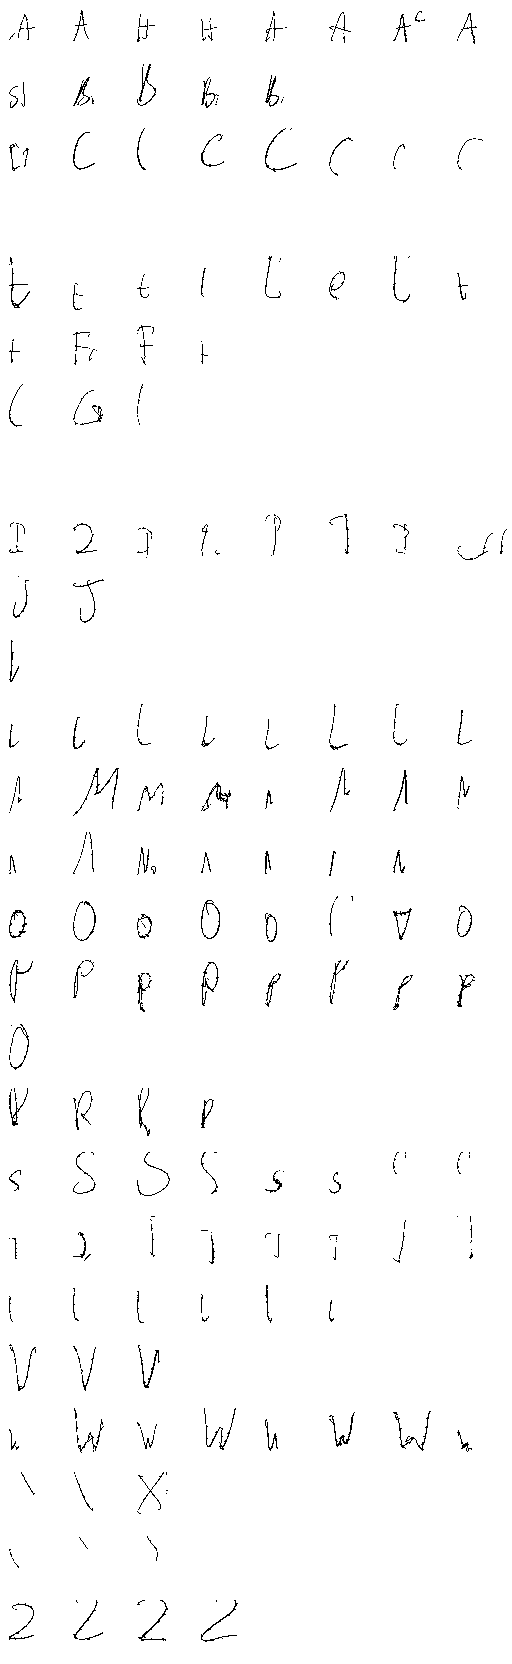
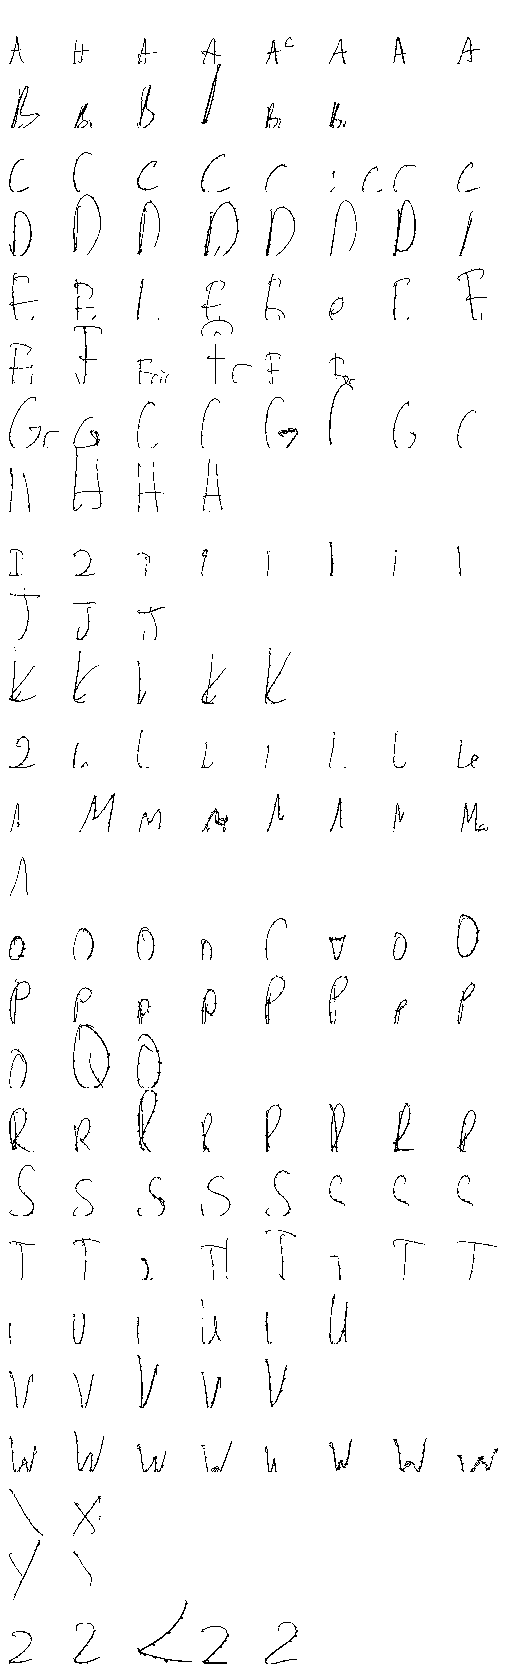
Template-guided re-cut, complete-stroke letter preference, compare v6/v7

diff --git a/inkclone/recut.py b/inkclone/recut.py
@@ -1,0 +1,135 @@
+"""Template-guided re-segmentation.
+
+Second pass over every labeled word. Same DP as `segment.py`, but each candidate
+span is also scored by how much it looks like the letter it is supposed to be, using
+templates built from the shape-filtered letter bank (the clean cores). Spans are
+described by a resampled polyline in word-normalised coordinates (baseline y=0,
+x-height = 1) plus width and height. This is what stops a cut from handing the tail
+of an "h" to the following "e".
+"""
+import pickle
+import numpy as np
+from .segment import split_diacritics, default_width_prior, load_words
+from .bank import word_frame
+from .units import resample
+
+NPTS = 16
+
+
+def span_desc(pts, xh):
+    """pts (n,2) in page coords relative to baseline -> descriptor in xh units."""
+    q = pts / xh; q = q - [q[:, 0].min(), 0]
+    r = resample(q, NPTS)
+    return np.r_[r.ravel(), q[:, 0].max() - q[:, 0].min(), q[:, 1].max() - q[:, 1].min()]
+
+
+def build_templates(letters, per_letter=60):
+    T = {}
+    for c, insts in letters.items():
+        descs = []
+        for inst in insts[:per_letter]:
+            main = max(inst["pieces"], key=len)[:, :2]  # already normalised: baseline 0, xh 1
+            pts = np.vstack([p[:, :2] for p in inst["pieces"]])
+            r = resample(main - [main[:, 0].min(), 0], NPTS)
+            descs.append(np.r_[r.ravel(), pts[:, 0].max() - pts[:, 0].min(), pts[:, 1].max() - pts[:, 1].min()])
+        if descs: T[c] = np.array(descs)
+    return T
+
+
+def recut_word(strokes, text, prior, templates, baseline, xh, lam_join=0.6, lam_width=0.6, lam_shape=1.2, max_b=44):
+    K = len(text)
+    allpts = np.vstack([s[:, :2] for s in strokes]); word_h = allpts[:, 1].max() - allpts[:, 1].min()
+    main, small = split_diacritics(strokes, word_h)
+    if not main or K == 1: return None
+    seq = np.vstack([s[:, :2] for _, s in main]); N = len(seq)
+    starts = np.cumsum([0] + [len(s) for _, s in main]); penup = set(starts[1:-1].tolist())
+    step = max(1, N // max_b)
+    cands = sorted(set(range(step, N - step, step)) | penup); cands = [c for c in cands if 0 < c < N]
+    if len(cands) < K - 1: return None
+    bounds_all = [0] + cands + [N]; B = len(bounds_all); barr = np.array(bounds_all)
+    pw = np.array([prior.get(c, 1.0) for c in text]); unit = (allpts[:, 0].max() - allpts[:, 0].min()) / pw.sum(); exp_w = pw * unit
+    ybot = np.percentile(seq[:, 1], 85)
+    jc = np.array([0.0 if b in penup or b in (0, N) else lam_join * (1 + max(0.0, (ybot - seq[b, 1]) / word_h)) for b in bounds_all])
+    rel = (seq - [0, baseline]) / xh
+    max_span = min(B - 1, int(np.ceil(1.6 * B / K)) + 2)
+    # span width matrix (B x B) via running max/min from each start
+    W = np.full((B, B), np.inf)
+    for i in range(B):
+        a = bounds_all[i]; xs = seq[a:, 0]
+        if len(xs) == 0: continue
+        cmax = np.maximum.accumulate(xs); cmin = np.minimum.accumulate(xs)
+        js = np.arange(i + 1, min(B, i + max_span + 1)); ends = barr[js] - a - 1
+        W[i, js] = cmax[ends] - cmin[ends]
+    # descriptors for all allowed spans
+    pairs = [(i, j) for i in range(B) for j in range(i + 1, min(B, i + max_span + 1)) if bounds_all[j] - bounds_all[i] >= 3]
+    desc = np.empty((len(pairs), 2 * NPTS + 2))
+    cum = np.r_[0, np.cumsum(np.linalg.norm(np.diff(rel, axis=0), axis=1))]
+    for n, (i, j) in enumerate(pairs):
+        a, b = bounds_all[i], bounds_all[j]; q = rel[a:b]
+        L = cum[b-1] - cum[a]
+        if L < 1e-6: r = np.repeat(q[:1], NPTS, 0)
+        else:
+            t = np.linspace(cum[a], cum[b-1], NPTS); r = np.column_stack([np.interp(t, cum[a:b], q[:, 0]), np.interp(t, cum[a:b], q[:, 1])])
+        r = r - [q[:, 0].min(), 0]
+        desc[n, :2*NPTS] = r.ravel(); desc[n, -2] = q[:, 0].max() - q[:, 0].min(); desc[n, -1] = q[:, 1].max() - q[:, 1].min()
+    wts = np.ones(desc.shape[1]); wts[-2:] = 3.0
+    shape = np.full((len(pairs), K), 5.0)
+    for k, c in enumerate(text):
+        T = templates.get(c)
+        if T is None: continue
+        d2 = ((desc[:, None, :] - T[None]) ** 2 * wts).sum(2)
+        shape[:, k] = np.sqrt(d2.min(1) / desc.shape[1])
+    # full cost tensor (B x B x K)
+    C = np.full((B, B, K), np.inf)
+    for n, (i, j) in enumerate(pairs):
+        C[i, j, :] = lam_shape * shape[n]
+    wc = lam_width * ((W[:, :, None] - exp_w[None, None, :]) / (0.5 * exp_w + 0.3 * unit)[None, None, :]) ** 2
+    C = C + wc + jc[None, :, None]
+    INF = 1e18; best = np.full((K, B), INF); back = np.full((K, B), -1, int)
+    best[0, :] = C[0, :, 0]
+    for k in range(1, K):
+        js = range(k + 1, B) if k < K - 1 else [B - 1]
+        for j in js:
+            v = best[k-1, :j] + C[:j, j, k]
+            i = int(np.argmin(v)); best[k, j] = v[i]; back[k, j] = i
+    if not np.isfinite(best[K-1, B-1]): return None
+    j = B - 1; cuts = []
+    for k in range(K - 1, 0, -1):
+        j = back[k, j]; cuts.append(bounds_all[j])
+    bounds = [0] + cuts[::-1] + [N]
+    chars = []
+    for k in range(K):
+        a, b = bounds[k], bounds[k+1]; pieces = []
+        for m, (i, s) in enumerate(main):
+            s0 = starts[m]; lo, hi = max(a, s0), min(b, s0 + len(s))
+            if hi > lo: pieces.append((i, lo - s0, hi - s0))
+        chars.append({"char": text[k], "pieces": pieces, "joined_prev": k > 0 and bounds[k] not in penup,
+                      "joined_next": k < K - 1 and bounds[k+1] not in penup})
+    spans = []
+    for ch in chars:
+        xs = np.concatenate([strokes[i][i0:i1, 0] for i, i0, i1 in ch["pieces"]]) if ch["pieces"] else np.array([np.nan])
+        spans.append((np.nanmin(xs), np.nanmax(xs)))
+    for i, s in small:
+        cx = s[:, 0].mean(); d = [0 if lo <= cx <= hi else min(abs(cx - lo), abs(cx - hi)) for lo, hi in spans]
+        chars[int(np.argmin(d))]["pieces"].append((i, 0, len(s)))
+    return chars
+
+
+if __name__ == "__main__":
+    import time
+    d = pickle.load(open("data/derived/segments.pkl", "rb")); units = pickle.load(open("data/derived/units.pkl", "rb"))
+    words = load_words(sorted({w["source"] for w in d["words"]}))
+    templates = build_templates(units["letters"]); prior = d["prior"]
+    import sys
+    limit = int(sys.argv[1]) if len(sys.argv) > 1 else None
+    t = time.time(); new = []; changed = 0
+    for n, (w, seg) in enumerate(zip(words, d["segs"])):
+        if limit and n >= limit: new.append(seg); continue
+        fr = word_frame(w["strokes"], seg) if seg else None
+        if not fr: new.append(seg); continue
+        r = recut_word(w["strokes"], w["text"], prior, templates, *fr)
+        if r is None: new.append(seg); continue
+        if any(a["pieces"] != b["pieces"] for a, b in zip(r, seg)): changed += 1
+        new.append(r)
+    print(f"recut {len(words)} words in {time.time()-t:.0f}s, {changed} changed")
+    if not limit: d["segs"] = new; pickle.dump(d, open("data/derived/segments.pkl", "wb"))

diff --git a/inkclone/units.py b/inkclone/units.py
@@ -59,6 +59,7 @@ def build(words, segs, drop_frac=0.3, min_for_filter=20):
             pieces = [w["strokes"][i][i0:i1].copy() for i, i0, i1 in ch["pieces"]]
             px = min(p[:, 0].min() for p in pieces)
             u = unit(normalise(pieces, px, baseline, xh), ch["char"], src)
+            u["whole"] = not ch["joined_prev"] and not ch["joined_next"]  # complete pen stroke(s), no guessed cut
             lo, hi = HEIGHT_RANGE[letter_class(ch["char"])]
             if lo <= u["height"] <= hi and 0.15 <= u["width"] <= 4.5: L[ch["char"]].append(u)
     # whole-word outlier filter: for words seen 3+ times, drop instances whose width or
@@ -89,4 +90,5 @@ if __name__ == "__main__":
     pickle.dump({"words": W, "chunks": C, "letters": L}, open("data/derived/units.pkl", "wb"))
     print(f"words: {sum(map(len, W.values()))} instances / {len(W)} distinct | chunks: {sum(map(len, C.values()))} / {len(C)} | letters kept: {sum(map(len, L.values()))}")
     print("word outlier filter (before->after):", rep.pop("_words"))
+    nw = sum(1 for v in L.values() for i in v if i.get("whole")); print(f"letters that are complete strokes (no cut): {nw}/{sum(map(len, L.values()))}")
     print("capitals kept:", " ".join(f"{c}:{b}" for c, (a, b) in sorted(rep.items()) if c.isupper()))

diff --git a/scripts/compare_v3.py b/scripts/compare_v3.py
@@ -8,7 +8,7 @@ for r, c in enumerate(letters):
     for k, inst in enumerate(L[c][:per]):
         img = render_strokes([p * [xh, xh, 1.0] + [6, 2.2 * xh, 0] for p in inst["pieces"]], (cell * 72 / 110,) * 2, dpi=110)
         h, w = min(img.shape[0], cell), min(img.shape[1], cell); canvas[r*cell:r*cell+h, k*cell:k*cell+w] = img[:h, :w]
-pymupdf.Pixmap(pymupdf.csRGB, canvas.shape[1], canvas.shape[0], canvas.tobytes(), False).save("reports/units_letter_grid_aets.png")
+pymupdf.Pixmap(pymupdf.csRGB, canvas.shape[1], canvas.shape[0], canvas.tobytes(), False).save("reports/units_letter_grid_aets_v2.png")
 
 dpi = 600
 pg = pymupdf.open("data/raw/CS 3511 HW5.pdf")[0]
@@ -27,4 +27,4 @@ for _, img in rows: canvas[y+30:y+30+img.shape[0], 10:10+img.shape[1]] = img; y 
 page = pymupdf.open().new_page(width=W * 72 / dpi, height=H * 72 / dpi)
 page.insert_image(page.rect, pixmap=pymupdf.Pixmap(pymupdf.csRGB, W, H, canvas.tobytes(), False)); y = 0
 for label, img in rows: page.insert_text((10 * 72 / dpi, (y + 20) * 72 / dpi), label, fontsize=4.5, color=(0.7, 0, 0)); y += img.shape[0] + 40
-page.get_pixmap(dpi=300).save("reports/compare_line_v5.png"); print("wrote both")
+page.get_pixmap(dpi=300).save("reports/compare_line_v7.png"); print("wrote both")

diff --git a/inkclone/synth2.py b/inkclone/synth2.py
@@ -25,7 +25,9 @@ class Synth2:
                 L = opts[0] if len(opts) == 1 or self.rng.random() < 0.7 else self.rng.choice(opts)
                 out.append(self.rng.choice(self.C[text[i:i+L]])); i += L
             elif text[i] in self.L and self.L[text[i]]:
-                out.append(self.rng.choice(self.L[text[i]])); i += 1
+                pool = self.L[text[i]]; whole = [u for u in pool if u.get("whole")]
+                if whole and (len(whole) >= 3 or self.rng.random() < 0.8): pool = whole
+                out.append(self.rng.choice(pool)); i += 1
             else:
                 out.append(None); i += 1
         return out

diff --git a/reports/2026-10-06-feasibility.md b/reports/2026-10-06-feasibility.md
@@ -33,3 +33,6 @@ Open question: target documents are math or prose? Math needs its own layout + s
 - Capital filter bug: writer's capitals are 3.5-4.5 x-heights; range widened to 1.8-5.5. Capital width prior raised to 1.8.
 - Whole-word outlier filter (width / stroke count vs same-word median): 1,489 -> 1,321 word instances.
 - `reports/compare_line_v5.png`: whole-word lines good; assembled words improved (B, F present) but still rough. Letter cuts around capitals are the dirtiest. Next: template-guided re-cutting.
+- Template-guided re-cut (`inkclone/recut.py`, vectorised, 28s for the corpus): 953/1493 words changed cuts. e/t/s grids visibly cleaner (`units_letter_grid_aets_v2.png`), "a" less so.
+- Letters that are complete pen strokes (unjoined both sides) are clean by construction: 2,247 of 3,598. Synth2 now prefers them.
+- `compare_line_v7.png`: whole-word lines good except occasional mislabeled word instances (an OCR "the" that is really "that"). Assembled words still inconsistent word to word.
